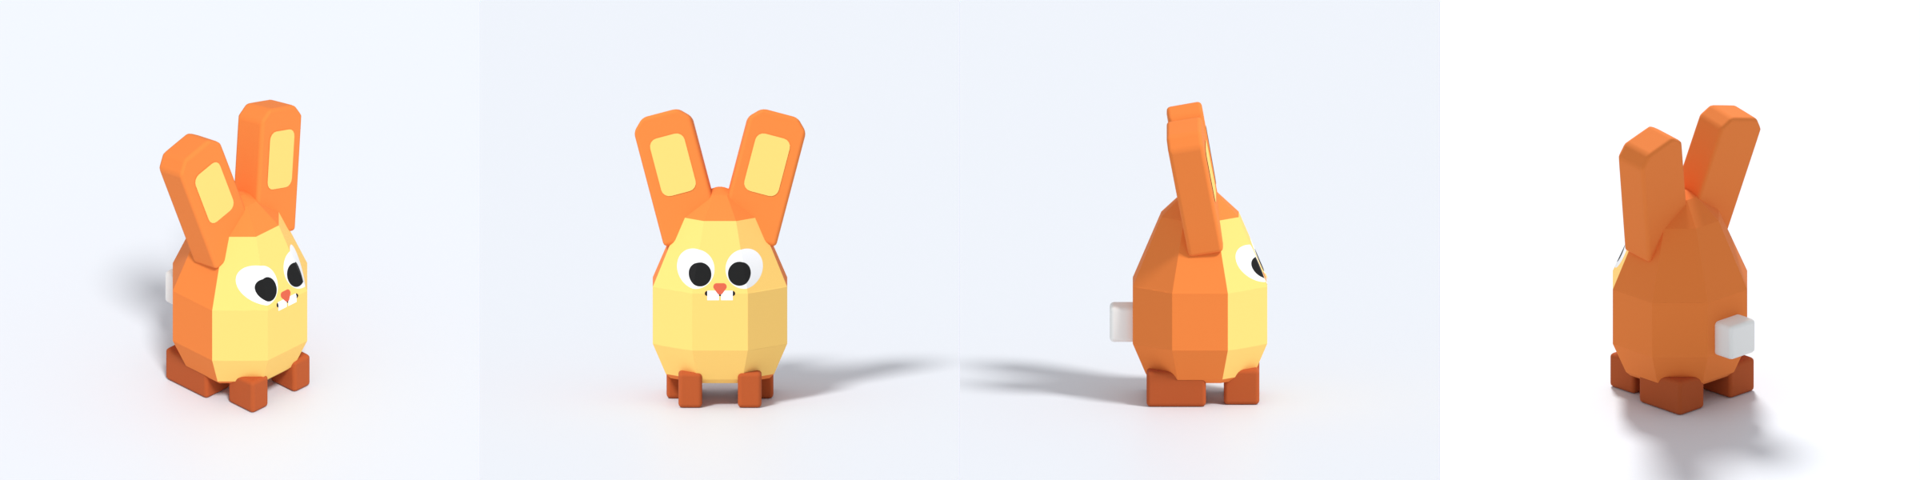
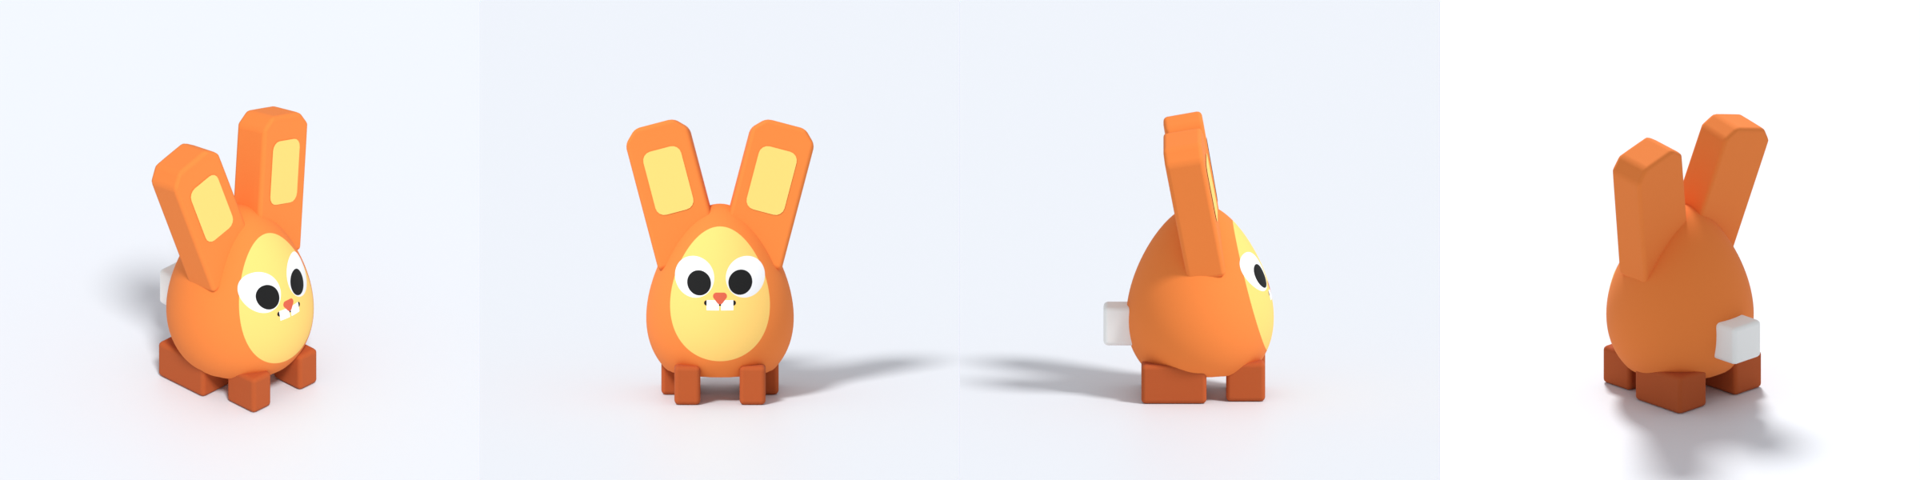
Egg bunny: a smooth egg body, 20% shorter, with a smooth-edged face oval
Claude-Session: https://claude.ai/code/session_01RRjPcssmw86k8yzoijijLA

diff --git a/tools/blender/build_bunny.py b/tools/blender/build_bunny.py
@@ -505,44 +505,47 @@ elif VARIANT == "cube":
     HEIGHT = 26
 
 elif VARIANT == "egg":
-    # An upright egg, faceted like the rest of the style: the voxels are cut by the egg's tangent planes
-    # at 45 deg steps around and 22.5 deg steps up, so it reads as a cut gem rather than a staircase.
-    # The egg is 18 tall over a flat seat at y = 2, 11 across at its widest, which sits below the middle;
-    # its profile is r(t) = 5.5 sqrt(1 - t^2) (1 - 0.25 t). The face colour covers every face turned
-    # well towards the front (not the crown) and the face decal is pressed onto them, eye line at 1/phi of the body's height.
-    # Big hind feet, small front paws, upright ears in the crown, a tail.
-    EGG_YC, EGG_A, EGG_B, EGG_K = 9, 9, 5.5, 0.25
-    egg_pts = []
-    for i in range(61):
-        t = -1 + 2 * i / 60
-        r = EGG_B * max(0, 1 - t * t) ** 0.5 * (1 - EGG_K * t)
-        for j in range(48):
-            a_ = 2 * math.pi * j / 48
-            egg_pts.append((r * math.cos(a_), EGG_YC + EGG_A * t, r * math.sin(a_)))
-    box = (-6, 6, 2, 18, -6, 6)
-    body = Part("Body")
-    body.box(*box, COAT)
-    for i in range(8):
-        az = math.radians(45 * i)
-        for j in range(-3, 5):                                                   # -67.5 .. +90 deg
-            el = math.radians(22.5 * j)
-            n = (math.cos(el) * math.sin(az), math.sin(el), math.cos(el) * math.cos(az))
-            if j == 4 and i:
-                continue                                                         # one cap, not eight
-            body.bevel(n, max(n[0] * x + n[1] * y + n[2] * z for x, y, z in egg_pts))
-    face_idx = mat(FACE)
-    body_ob = body.build()
-    for f in body_ob.data.polygons:                                              # forward, not the crown
-        if f.normal.y < -0.6 and f.normal.z < 0.5:
-            f.material_index = face_idx
-    face_uvs(body_ob, None, 2 + 16 / PHI, 11, facing=0.6)
+    # An upright egg with a smooth surface (not voxels): a dense sphere reshaped to the profile
+    # r(t) = 5.5 sqrt(1 - t^2) (1 - 0.25 t), widest below the middle, cut flat at y = 2 to sit on.
+    # 12.8 tall above the seat. The face colour is a smooth oval on the front; the face decal is pressed onto
+    # it, eye line at 1/phi of the body's height. Big hind feet, small front paws, upright ears in the
+    # crown, a tail.
+    EGG_YC, EGG_A, EGG_B, EGG_K, SEAT = 7.6, 7.2, 5.5, 0.25, 2
+    bm = bmesh.new()
+    bmesh.ops.create_uvsphere(bm, u_segments=96, v_segments=64, radius=1)
+    # The sphere's pole points forward (tilted 10 deg up), so its rings circle the face: the face patch is
+    # every face within 45 deg of the pole, and its edge runs along one smooth ring.
+    pole = Vector((0, -math.cos(math.radians(10)), math.sin(math.radians(10))))   # Blender: -y forward
+    bmesh.ops.rotate(bm, verts=bm.verts, matrix=Vector((0, 0, 1)).rotation_difference(pole).to_matrix())
+    on_face = {f.index for f in bm.faces if all(v.co.dot(pole) > math.cos(math.radians(45)) - 1e-6 for v in f.verts)}
+    for v in bm.verts:                                       # Blender z is up: t from the sphere's z
+        t = v.co.z
+        k = EGG_B * (1 - EGG_K * t)
+        x, y, z = v.co.x * k, max(SEAT, EGG_YC + EGG_A * t), -v.co.y * k      # Unity voxel coords
+        v.co = B((x, y, z))
+    bm.faces.ensure_lookup_table()
+    for f in bm.faces:
+        f.material_index = 1 if f.index in on_face else 0    # remapped to real slots below
+    me = bpy.data.meshes.new("Body")
+    bm.to_mesh(me)
+    coat_idx, face_idx = mat(COAT), mat(FACE)               # register both before taking the slots
+    for m in MATS.values():
+        me.materials.append(m)
+    me.shade_smooth()
+    body_ob = bpy.data.objects.new("Body", me)
+    sc.collection.objects.link(body_ob)
+    body_ob.parent = root
+    eye_y = SEAT + 12.8 / PHI
+    for f in me.polygons:
+        f.material_index = face_idx if f.material_index == 1 else coat_idx
+    face_uvs(body_ob, None, eye_y, 10.5, facing=0.5)
     for sx in (1, -1):
-        ear("Ear" + ("R" if sx > 0 else "L"), sx, sx * 3, 16.5, -1.5, 5, 3, 11, 3, pitch=10, splay=15,
+        ear("Ear" + ("R" if sx > 0 else "L"), sx, sx * 3, 13.2, -1.5, 5, 3, 11, 3, pitch=10, splay=15,
             plate_inner=True)
-    tail(6.5, -5.6, size=3, proud=2)
+    tail(5.5, -5.4, size=3, proud=2)
     feet((-3, 3), (-2,), 3, 5, 3, 1, 2)                                          # big hind feet, 3 x 5
     feet((-2.5, 2.5), (3.5,), 2, 3, 3, 1, 2)                                     # small front paws, 2 x 3
-    HEIGHT = 27
+    HEIGHT = 24
 
 else:  # sitting
     # A low body and a separate head that can nod: the classic proportions split at the neck.
